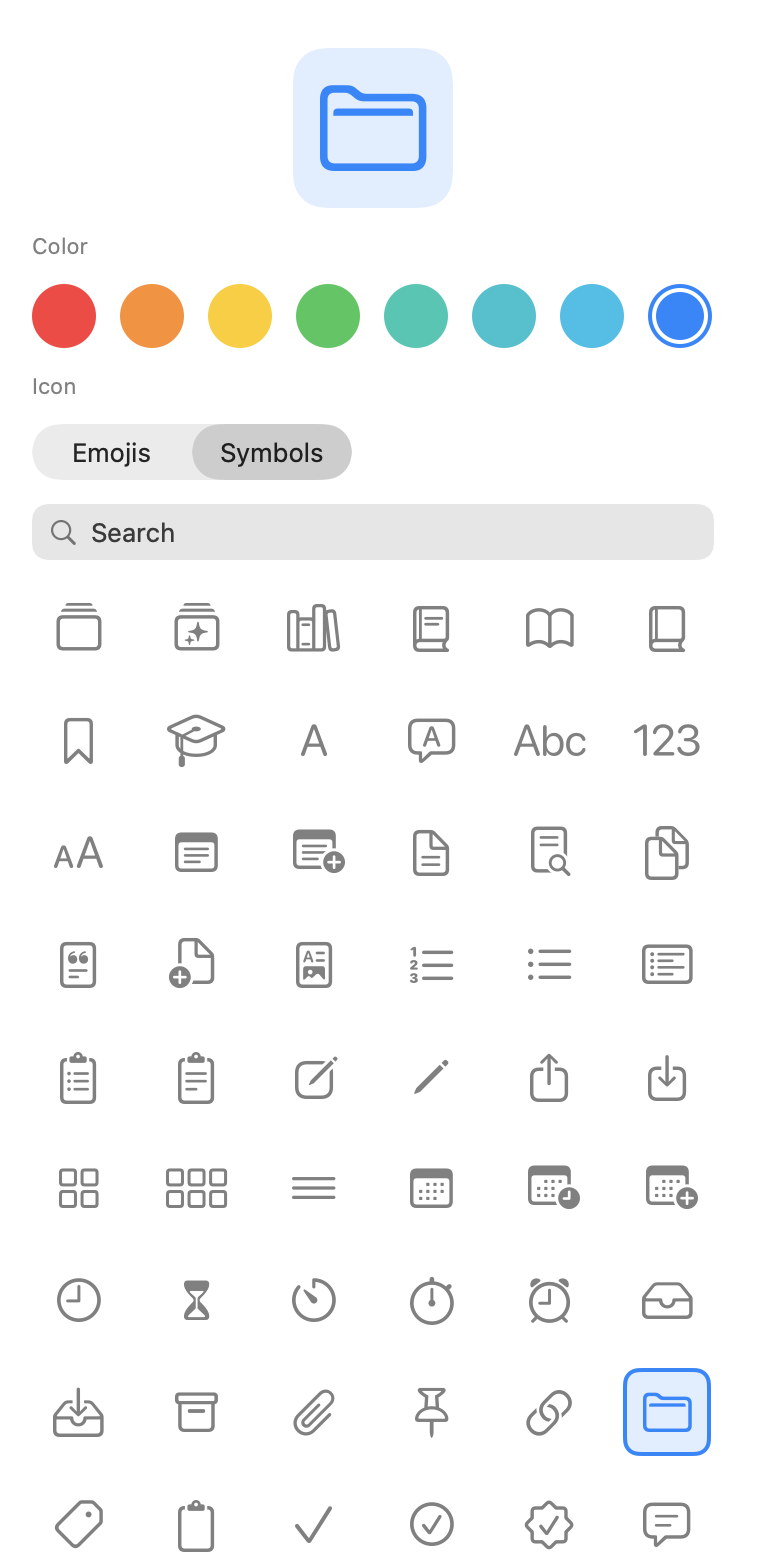
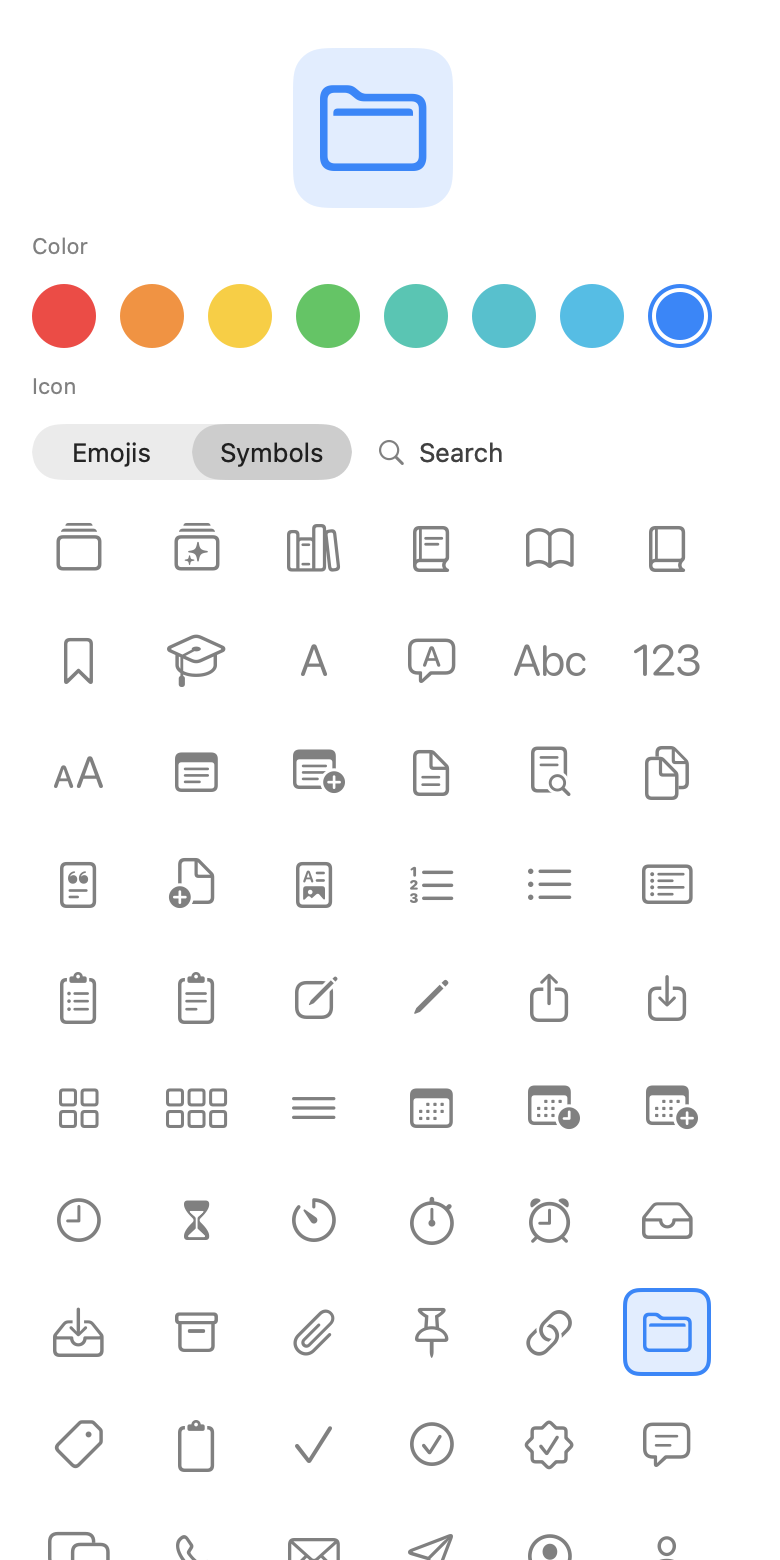
fix: put search on the mode-control row
A full-width filled field was still a second bar. Mode and search
now share one row; search is just a magnifying glass and prompt.

diff --git a/Sources/IconPickerKit/IconPickerView.swift b/Sources/IconPickerKit/IconPickerView.swift
@@ -130,21 +130,23 @@ public struct IconPickerView: View {
                 .foregroundStyle(.secondary)
                 .accessibilityAddTraits(.isHeader)
 
-            Picker(self.labels.icon, selection: self.$mode) {
-                Text(self.labels.emojis).tag(Mode.emojis)
-                Text(self.labels.symbols).tag(Mode.symbols)
-            }
-            .pickerStyle(.segmented)
-            .labelsHidden()
-            .controlSize(.large)
-            .frame(maxWidth: .infinity, alignment: .leading)
-            .frame(height: IconPickerLayout.modeHeight)
+            HStack(spacing: IconPickerLayout.stackSpacing) {
+                Picker(self.labels.icon, selection: self.$mode) {
+                    Text(self.labels.emojis).tag(Mode.emojis)
+                    Text(self.labels.symbols).tag(Mode.symbols)
+                }
+                .pickerStyle(.segmented)
+                .labelsHidden()
+                .controlSize(.large)
+                .fixedSize()
+                .frame(height: IconPickerLayout.modeHeight)
 
-            IconPickerSearchField(
-                text: self.$query,
-                debounce: self.$debounce,
-                origin: self.origin,
-                prompt: self.labels.search)
+                IconPickerSearchField(
+                    text: self.$query,
+                    debounce: self.$debounce,
+                    origin: self.origin,
+                    prompt: self.labels.search)
+            }
 
             if self.mode == .emojis {
                 self.emojiGrid

diff --git a/Sources/IconPickerKit/IconPickerSearch.swift b/Sources/IconPickerKit/IconPickerSearch.swift
@@ -9,9 +9,11 @@ struct IconPickerSearchField: View {
     var body: some View {
         HStack(spacing: 6) {
             Image(systemName: "magnifyingglass")
+                .font(.body)
                 .foregroundStyle(.secondary)
                 .accessibilityHidden(true)
             TextField(self.prompt, text: self.$text)
+                .font(.body)
                 .textFieldStyle(.plain)
                 .autocorrectionDisabled()
 #if os(iOS)
@@ -28,9 +30,7 @@ struct IconPickerSearchField: View {
                 .accessibilityLabel("Clear")
             }
         }
-        .padding(.horizontal, 8)
         .frame(height: IconPickerLayout.searchHeight)
-        .background(.quaternary, in: RoundedRectangle(cornerRadius: 8, style: .continuous))
         .onChange(of: self.text) { _, new in
             self.debounce.push(new, at: ContinuousClock.now - self.origin)
         }

diff --git a/CHANGELOG.md b/CHANGELOG.md
@@ -17,6 +17,7 @@ All notable changes to IconPickerKit are recorded here. The format follows
 
 ### Changed
 
+- Search sits on the same row as the mode control, with no fill, so it does not read as a second bar.
 - The emoji/symbol control hides its extra macOS picker title. The section header already names it.
 
 ## [1.1.0] - 2026-08-18
